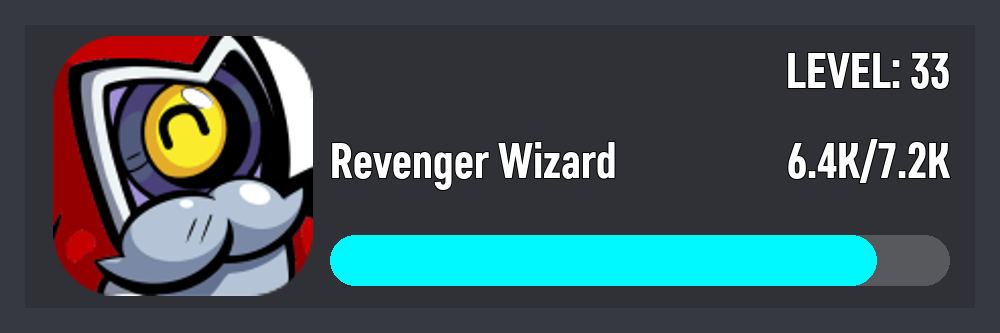
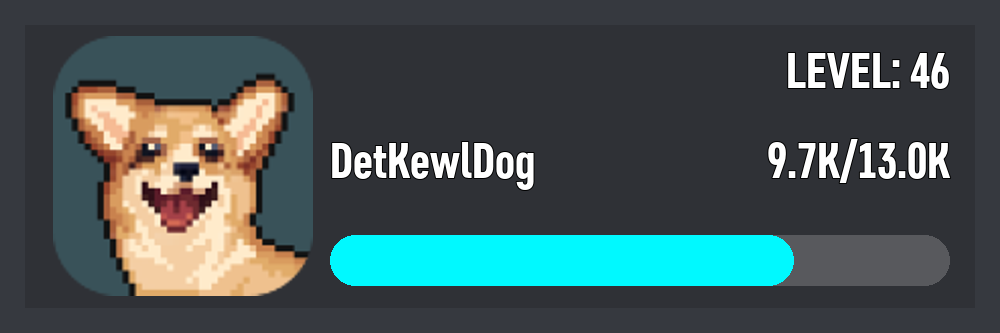
improved cards and added customization

diff --git a/Cogs/customize.py b/Cogs/customize.py
@@ -1,0 +1,41 @@
+from interactions import *
+from levels import *
+
+
+class Ext(Extension):
+
+    def __init__(self, client: Client) -> None:
+        self.client: Client = client
+
+    @extension_command(name="customize",
+                       description="Customize your Level Card")
+    async def _bug(self, ctx: CommandContext):
+        with open(f'{ctx.guild_id}.txt', 'r') as f:
+            users = load(f.read())
+        user = users[ctx.author.id]
+        modal = Modal(
+            title="Settings",
+            custom_id="settings",
+            components=[
+                TextInput(style=TextStyleType.SHORT,
+                          label="Bar Color:",
+                          custom_id="color",
+                          value=user.color[1:])
+            ],
+        )
+        await ctx.popup(modal)
+
+    @extension_modal("settings")
+    async def settings_resp(self, ctx, color):
+        with open(f'{ctx.guild_id}.txt', 'r') as f:
+            users = load(f.read())
+        if not ctx.author.id in users.keys():
+            users[ctx.author.id] = User(message.author.username, 0, 0, '#00F9FF')
+        users[ctx.author.id].color = f'#{color}'
+        with open(f'{ctx.guild_id}.txt', 'w') as f:
+            f.write(dump(users))
+        await ctx.send('Updated Settings!', ephemeral=True)
+
+
+def setup(client):
+    Ext(client)

diff --git a/main.py b/main.py
@@ -6,9 +6,12 @@ import time
 from levels import *
 import random
 
-cogs: list = ["Cogs.rank", "Cogs.levels"]
+cogs: list = ["Cogs.rank", "Cogs.levels", "Cogs.customize"]
 client = 0
-client = interactions.Client(token=os.getenv('TOKEN'), intents=interactions.Intents.GUILD_MEMBERS | interactions.Intents.DEFAULT,)
+client = interactions.Client(
+    token=os.getenv('TOKEN'),
+    intents=interactions.Intents.GUILD_MEMBERS | interactions.Intents.DEFAULT,
+)
 
 BOT_ID = '1072826728642252913'
 
@@ -47,16 +50,19 @@ async def on_message_create(message):
     if not guild_id in cooldown_dict.keys():
         cooldown_dict[guild_id] = []
     if id in cooldown_dict[guild_id]: return
-        
+
     cooldown_dict[guild_id].append(id)
-    t = threading.Thread(target=do_cooldown, args=(id, guild_id, ))
+    t = threading.Thread(target=do_cooldown, args=(
+        id,
+        guild_id,
+    ))
     t.start()
 
     with open(f'{guild_id}.txt', 'r') as f:
         users = load(f.read())
 
     if not id in users.keys():
-        users[id] = User(message.author.username, 0, 0)
+        users[id] = User(message.author.username, 0, 0, '#00F9FF')
     res = users[id].add_xp(random.randint(15, 25))
     users[id].name = message.author.username
     if res == 1:

diff --git a/levels.py b/levels.py
@@ -11,10 +11,11 @@ def calc_level_xp(lvl):
 
 class User:
 
-    def __init__(self, name, lvl, xp):
+    def __init__(self, name, lvl, xp, color):
         self.name = name
         self.lvl = lvl
         self.xp = xp
+        self.color = color
 
     def add_xp(self, xp_to_add):
         xp_left = calc_level_xp(self.lvl) - self.xp - xp_to_add
@@ -42,7 +43,7 @@ def fetch(guild_id):
     for user in dat['players']:
         xp = user['xp'] - sum(
             [calc_level_xp(lvl) for lvl in range(0, user['level'])])
-        users[user['id']] = User(user['username'], user['level'], xp)
+        users[user['id']] = User(user['username'], user['level'], xp, '#00F9FF')
     with open(f'{guild_id}.txt', 'w') as f:
         f.write(dump(users))
 

diff --git a/Cogs/rank.py b/Cogs/rank.py
@@ -33,14 +33,13 @@ class Ext(Extension):
         with open(f'{ctx.guild_id}.txt', 'r') as f:
             users = load(f.read())
 
-
         msg = await ctx.send('Loading, please wait...')
         user = users[str(member.id)]
         lb = calc_leaderboard(ctx.guild_id)
         rank = list(lb.keys()).index(str(member.id)) + 1
         print(member)
         icon = member.user.avatar_url
-        print(icon)
+        card_settings.bar_color = user.color
         a = RankCard(settings=card_settings,
                      avatar=icon,
                      level=user.lvl,
